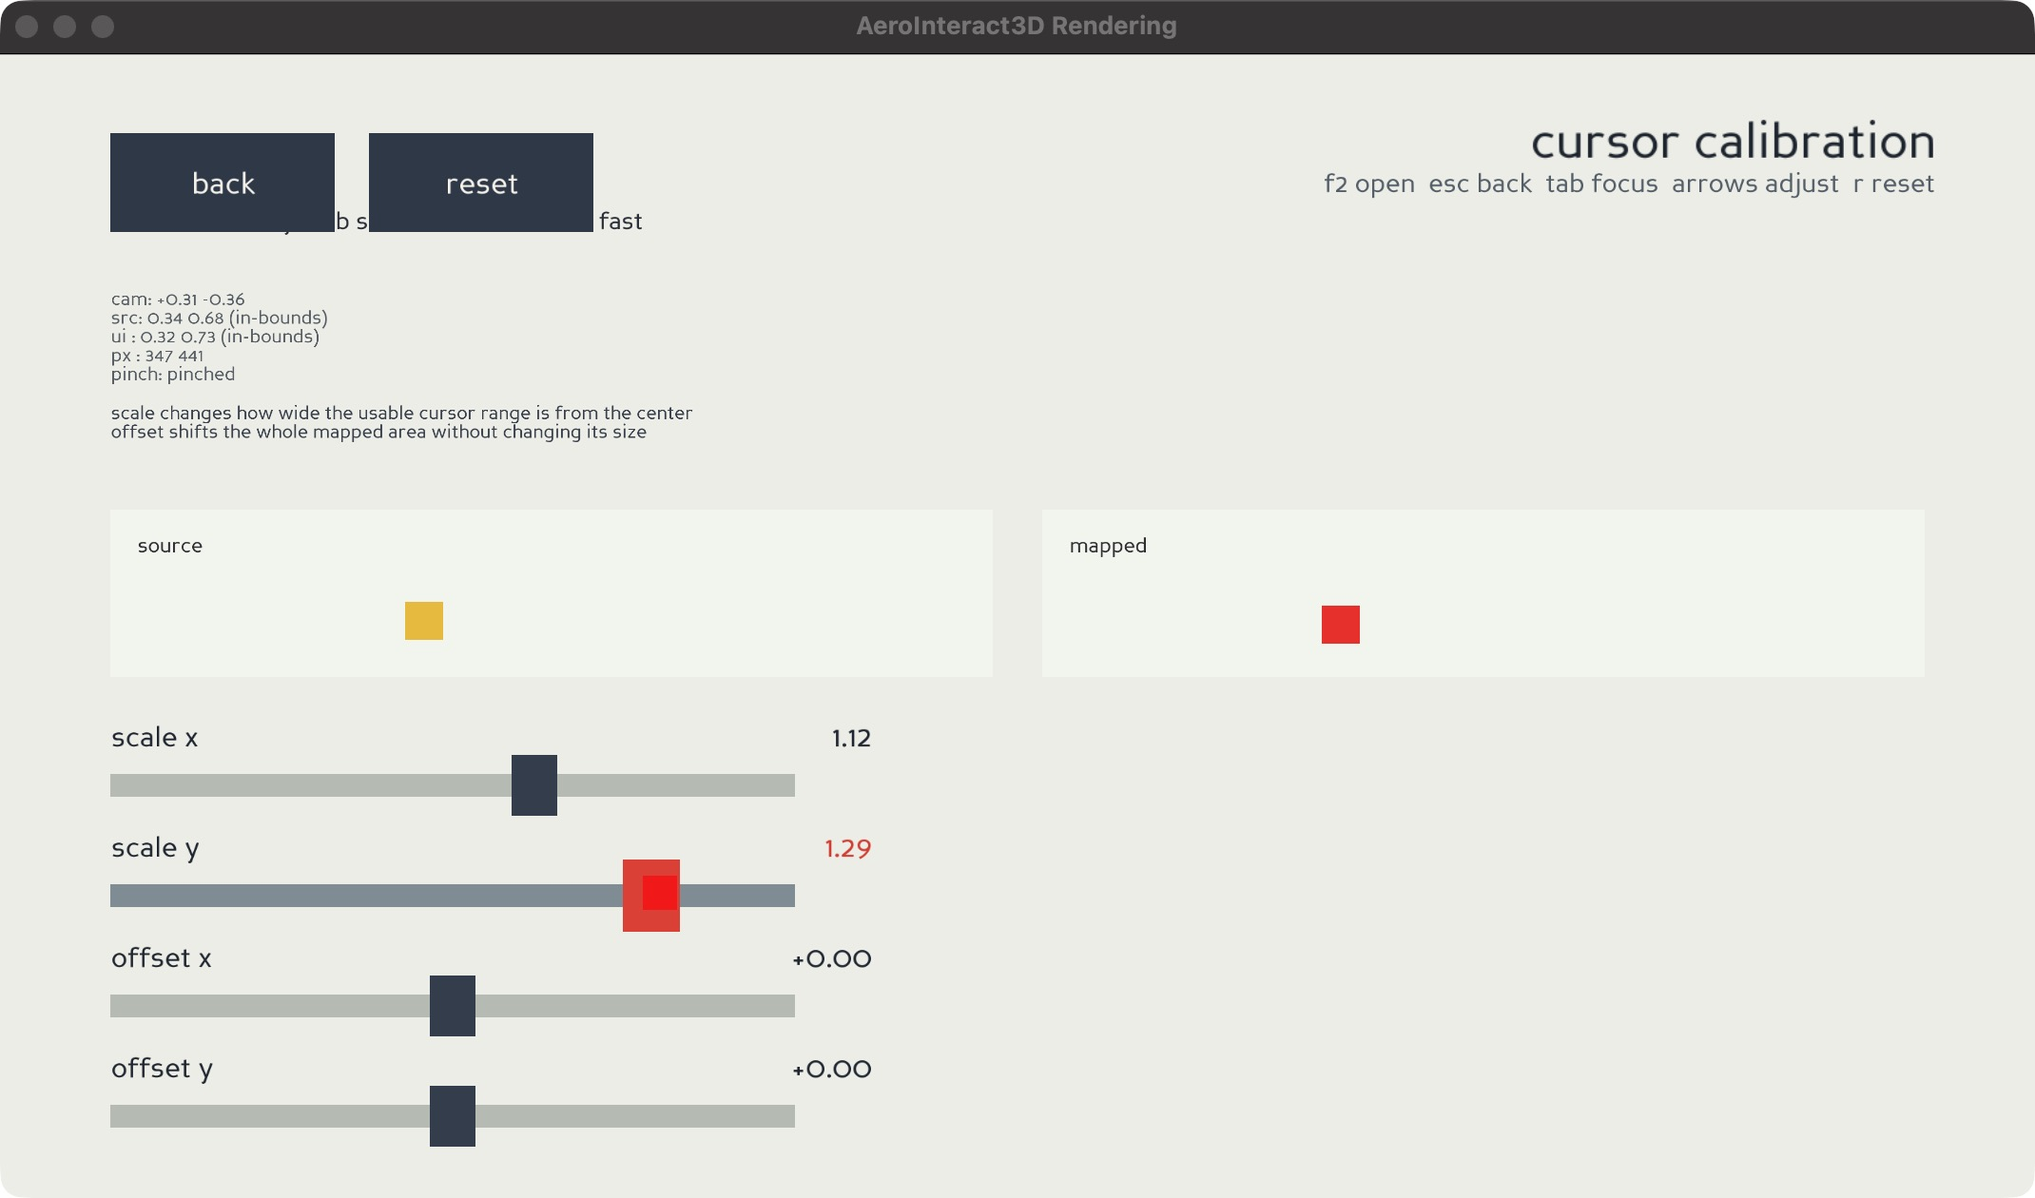
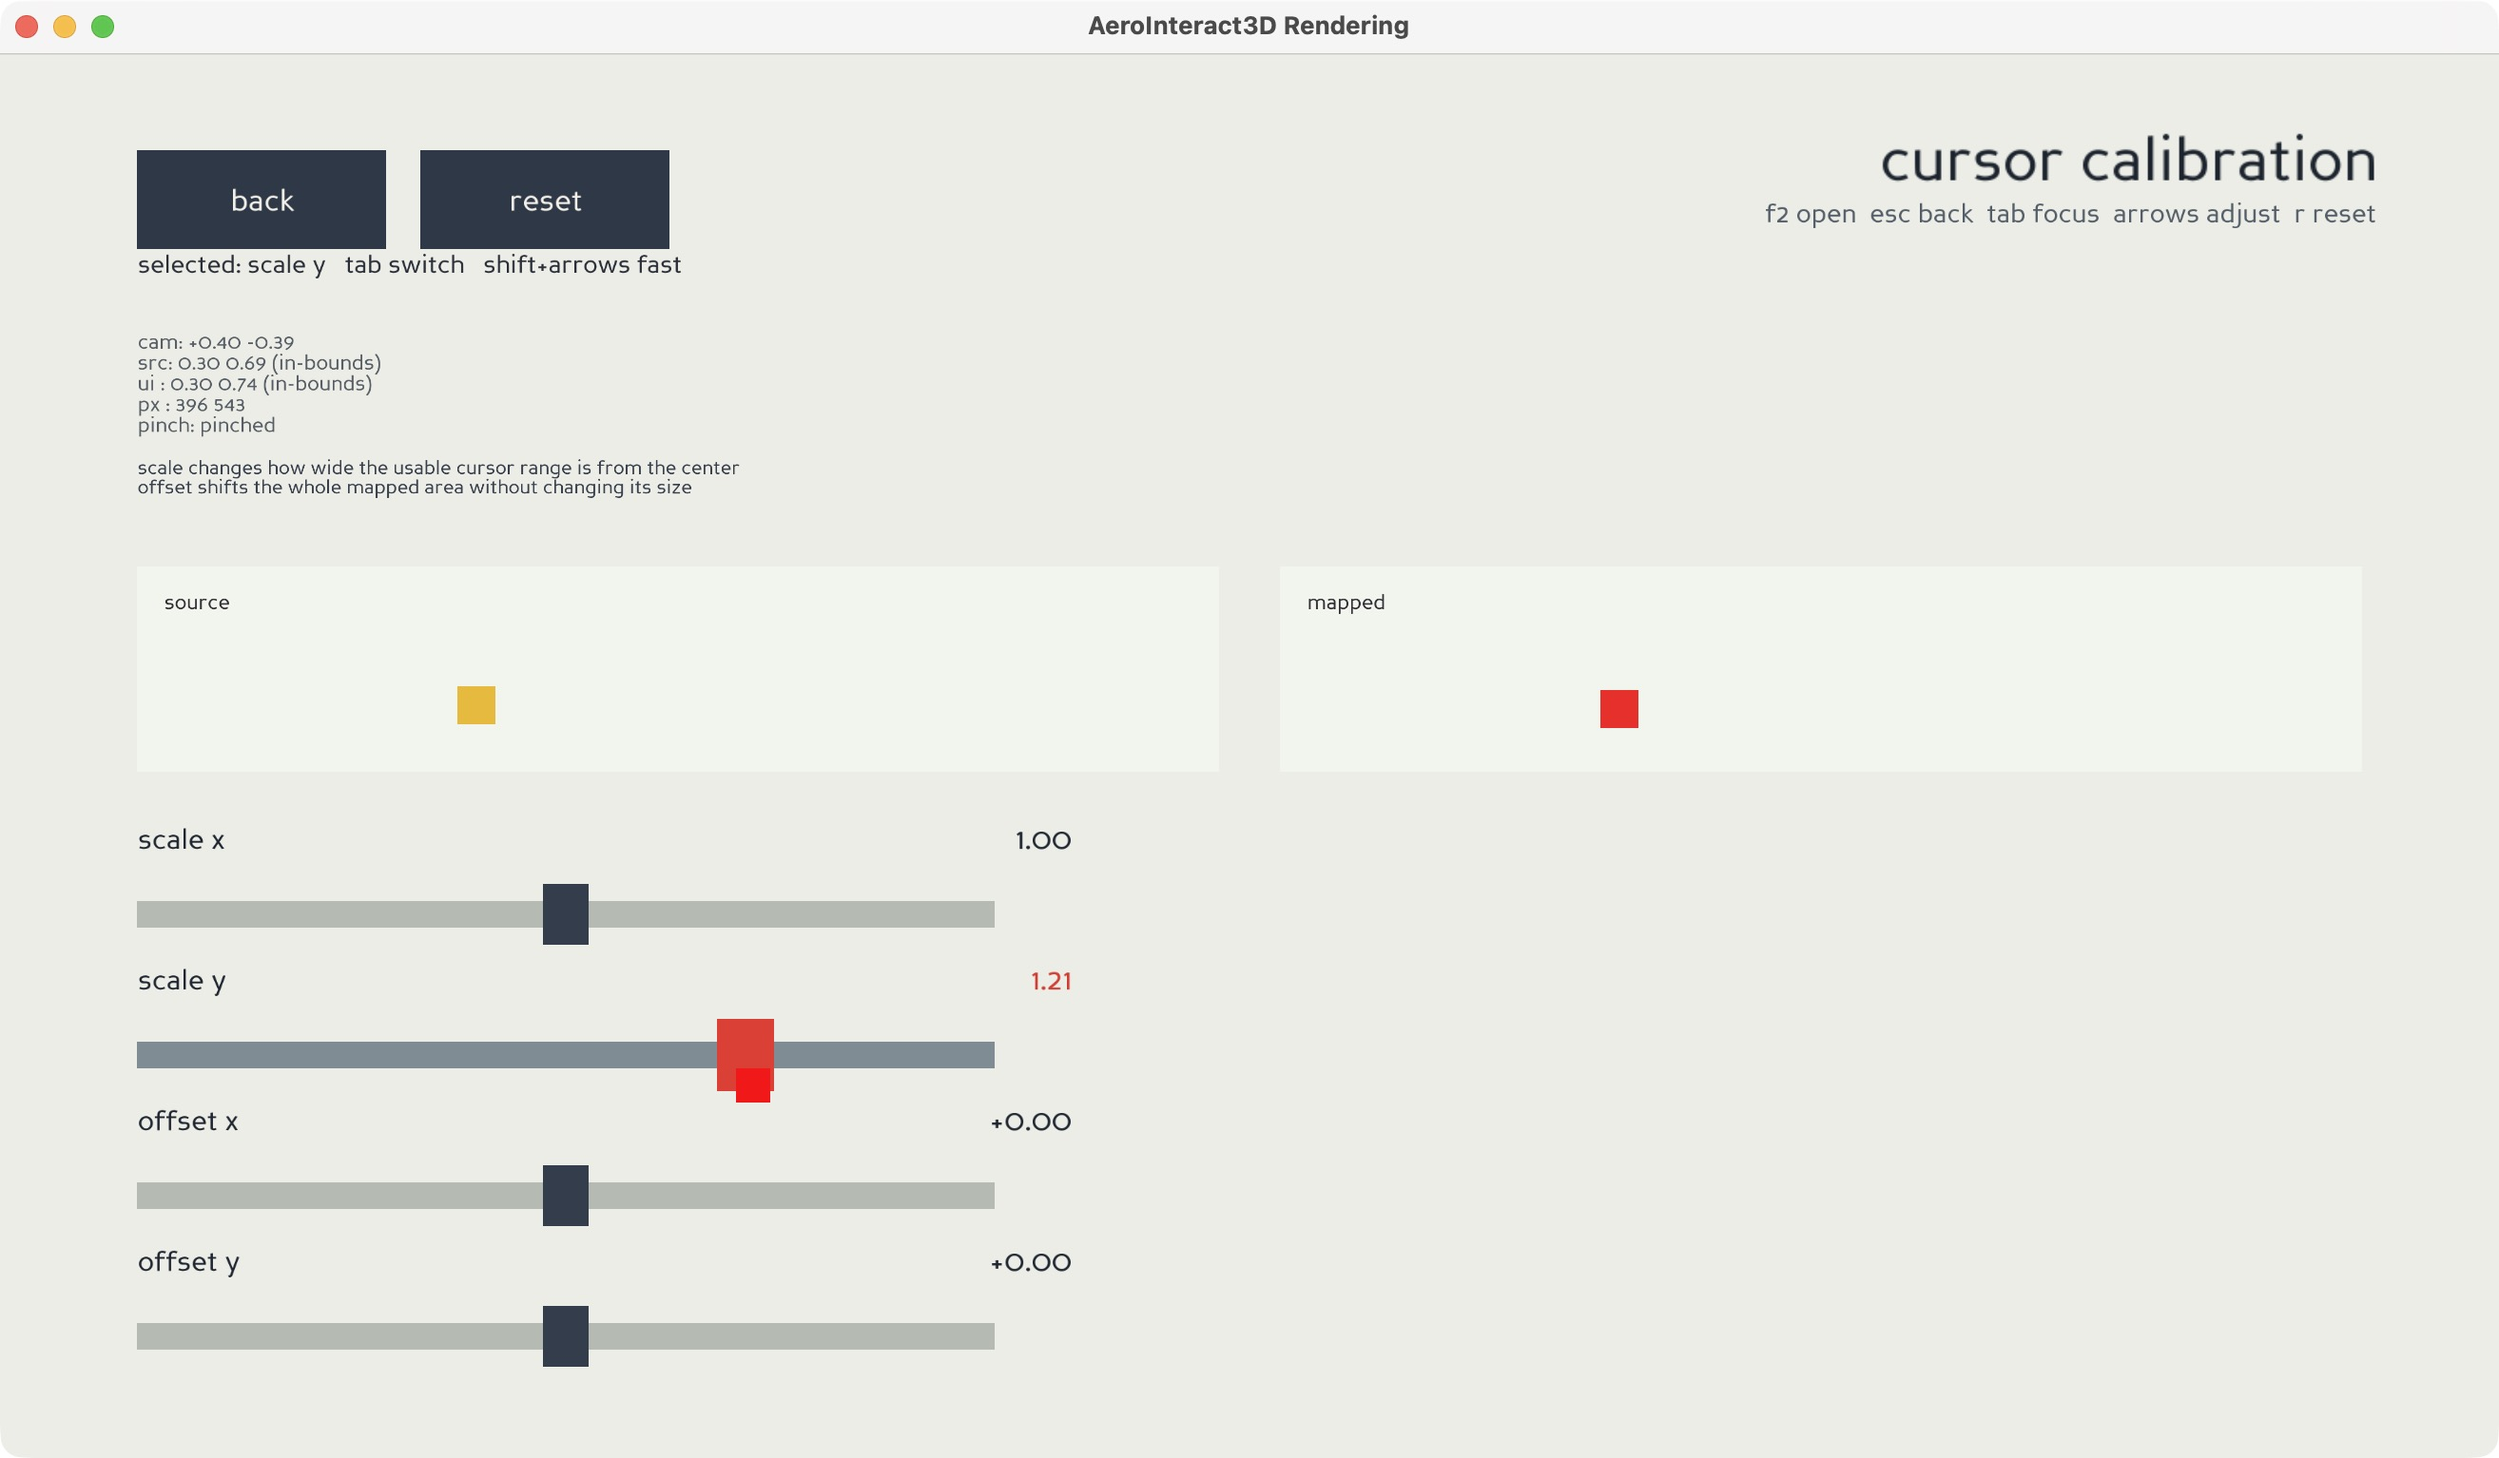
Add table screenshot to report

diff --git a/report/final-tech-report.md b/report/final-tech-report.md
@@ -690,21 +690,21 @@ def run(self) -> None:
 
 ## 已完成的 UI 页面
 
-本次展示中，桌面 UI 的三张截图已经整理完成并复制到 `assets/`。它们分别对应主页、设置页和光标标定页，可以直接用于报告排版。
+本次展示中，桌面 UI 的四张截图已经整理完成并复制到 `assets/`。它们分别对应主页、设置页、桌面场景中的 table 视图和光标标定页，可以直接用于报告排版。
 
 ```{=latex}
 \begin{figure}[htbp]
 \centering
 \noindent\makebox[\textwidth][c]{%
-\begin{minipage}[t]{0.40\textwidth}
+\begin{minipage}[t]{0.48\textwidth}
 \centering
 \includegraphics[width=\linewidth]{assets/system-ui-home.jpg}
 \par\vspace{0.35em}
 {\small \textbf{主页}}
 \par{\footnotesize table / setting 两个入口}
 \end{minipage}
-\hspace{0.05\textwidth}%
-\begin{minipage}[t]{0.40\textwidth}
+\hspace{0.03\textwidth}%
+\begin{minipage}[t]{0.48\textwidth}
 \centering
 \includegraphics[width=\linewidth]{assets/system-ui-settings.jpg}
 \par\vspace{0.35em}
@@ -712,9 +712,17 @@ def run(self) -> None:
 \par{\footnotesize 全局参数与预览面板}
 \end{minipage}
 }
-\par\vspace{0.95em}
+\par\vspace{0.85em}
 \noindent\makebox[\textwidth][c]{%
-\begin{minipage}[t]{0.40\textwidth}
+\begin{minipage}[t]{0.48\textwidth}
+\centering
+\includegraphics[width=\linewidth]{assets/system-ui-table.jpg}
+\par\vspace{0.35em}
+{\small \textbf{Table 视图}}
+\par{\footnotesize table options / object visibility}
+\end{minipage}
+\hspace{0.03\textwidth}%
+\begin{minipage}[t]{0.48\textwidth}
 \centering
 \includegraphics[width=\linewidth]{assets/system-ui-calibration.jpg}
 \par\vspace{0.35em}
